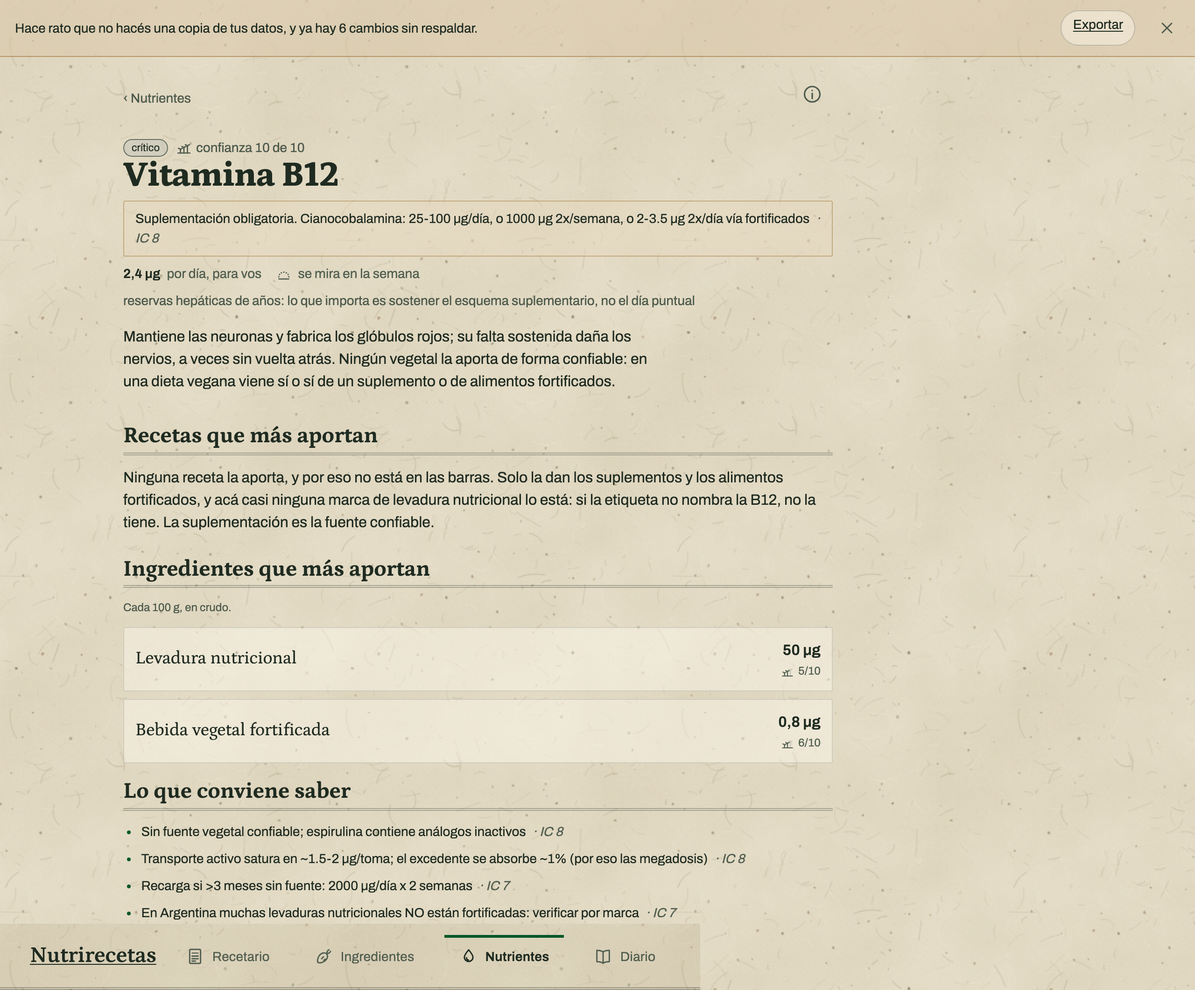
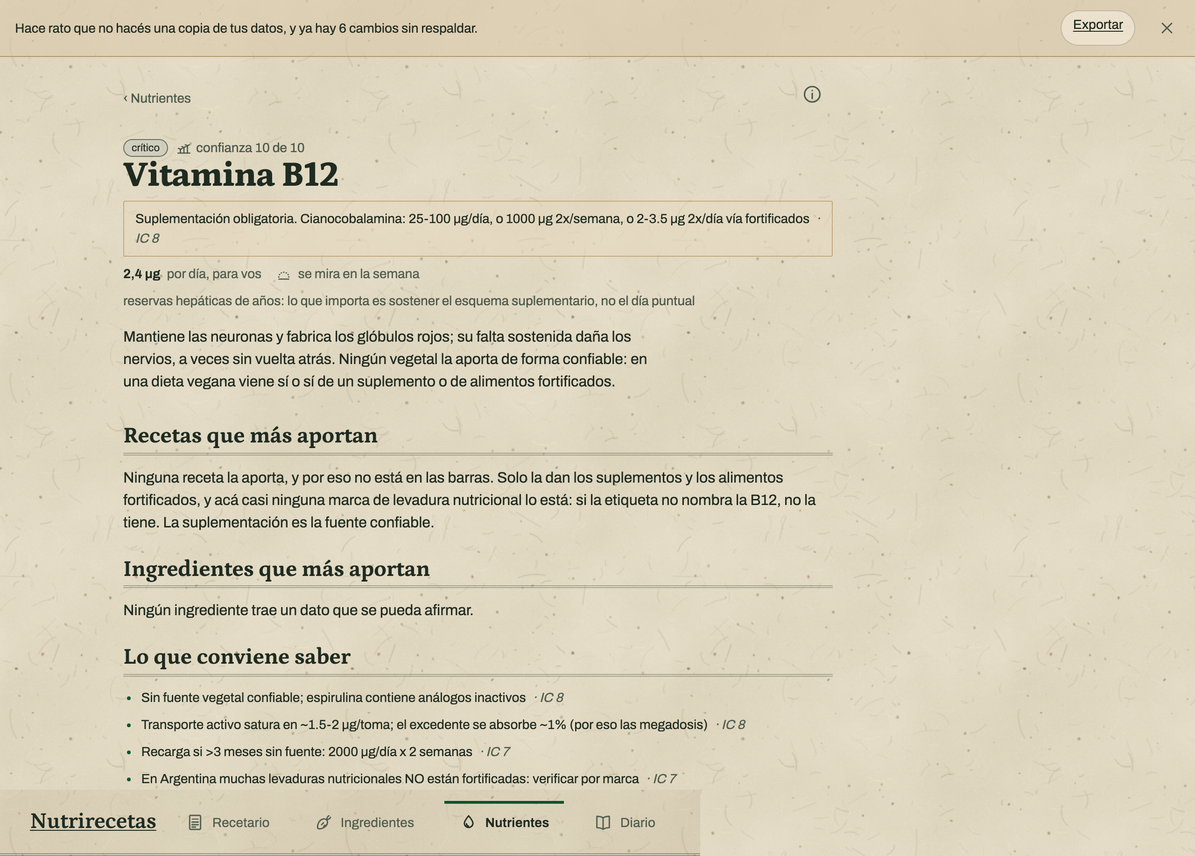
docs(renders): la ficha de B12 sin la levadura en el ranking, y lessons con #240 y #241

diff --git a/lessons.md b/lessons.md
@@ -630,8 +630,9 @@ de una auditoría ni de un test: de cocinar con ella.
 **Lo que se rompió o casi:**
 
 - **Un porcentaje que el rango no sostiene no se escribe.** La levadura decía ~2083 % de B12; con `porcentajeAfirmableSolo` dice «—». El ranking de recetas por nutriente sacó los rangos que arrancan en cero: B12 y vitamina D explican en vez de listar, y el calcio bajó de 40 a 35 puestos. Invariante 5; salió al mirar, no de un test.
-- **Los renders encontraron gramos secos con valores de cocido.** `lentejas_turcas`, `lentejas`, `arroz_*`, `quinoa`, `fideos`, `porotos_pallares` y `soja_grano` tienen `base` cocida, y ~20 líneas las pesan en seco (`taza_seca`, `g_secas`, `taza_cruda`). El motor no convierte: la sopa r01 da 8 g de proteína por porción en vez de ~18. Lo delató un número bajo, no un test; ningún golden lo cubre.
+- **Los renders encontraron gramos secos con valores de cocido.** `lentejas_turcas`, `lentejas`, `arroz_*`, `quinoa`, `fideos`, `porotos_pallares` y `soja_grano` tienen `base` cocida, y ~20 líneas las pesan en seco (`taza_seca`, `g_secas`, `taza_cruda`). El motor no convierte: la sopa r01 da 8 g de proteína por porción en vez de ~18. Lo delató un número bajo, no un test; ningún golden lo cubre (#240).
 - **Una red que mira el texto crudo ve lo que nadie lee, por segunda y tercera vez.** El `#2` de `{aceitunas#2}` contaba como número suelto (#204) y «ningún paso nombra un código» rechazaba `{p08}` (#206, #207). Borrar los tokens antes de chequear, como el matcher de #199.
+- **Un filtro arreglado en un ranking y no en su gemelo** (#241): el de recetas ya dejaba afuera los rangos que arrancan en cero, el de ingredientes no, y la levadura encabezaba la B12 con 50 µg.
 - **El validador no ve una cantidad que se pierde.** Los CR de las tandas encontraron bicarbonato en «un poco», levadura sin proporción y un relleno sin cantidades: prosa válida para la red, inútil para cocinar. La revisión de la prosa sigue siendo humana.
 - **Lo que retoma al ingrediente después del token se nombra con el sustantivo.** «Cortarlo» después de «los 2 bloques» choca a ×2. Revisar a factor mínimo **y** a ×2.
 - **El handoff pedía datos que no existen, otra vez**: función por ingrediente y sustitutos con proporción. Se mostró lo que hay (`notas`, sustitutos juntados de las líneas) en vez de curar 158 frases.
